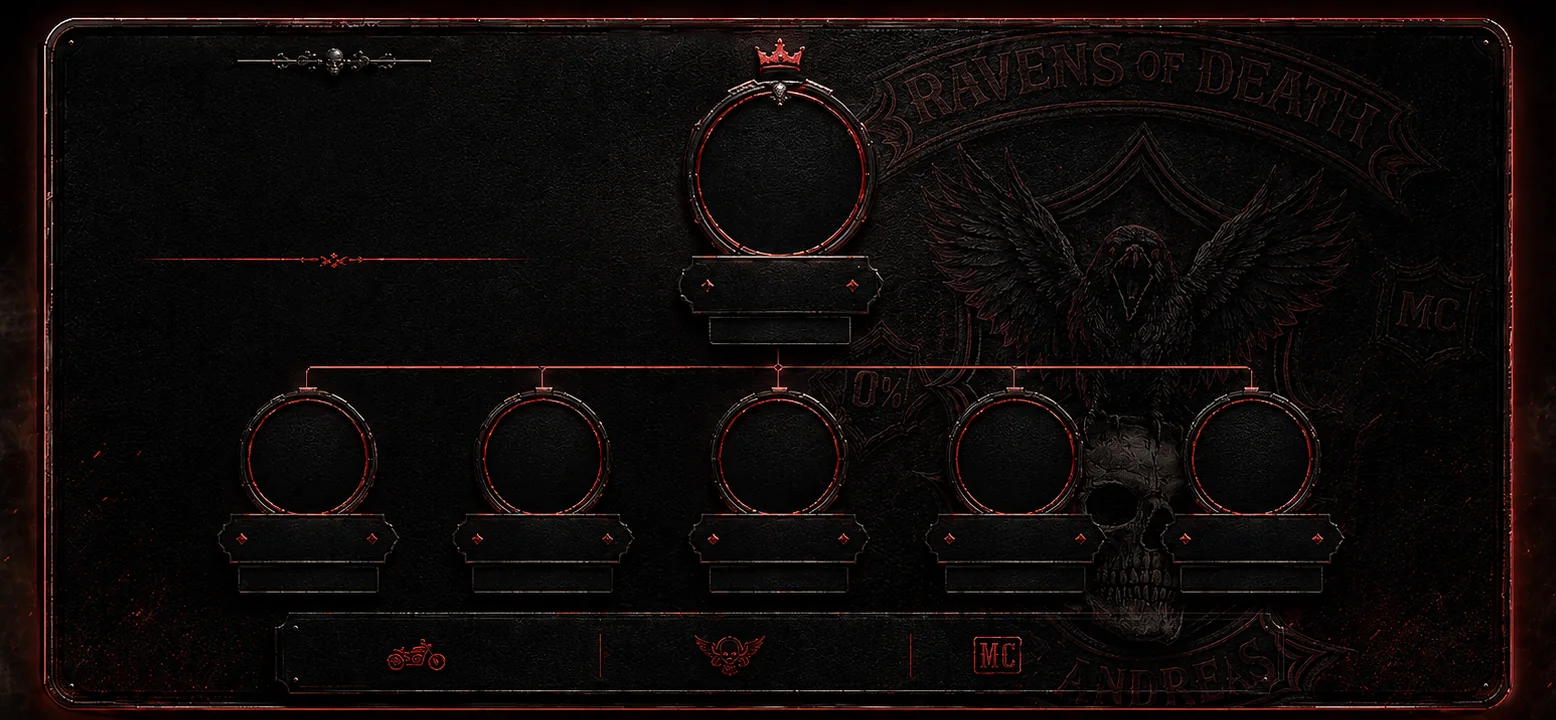
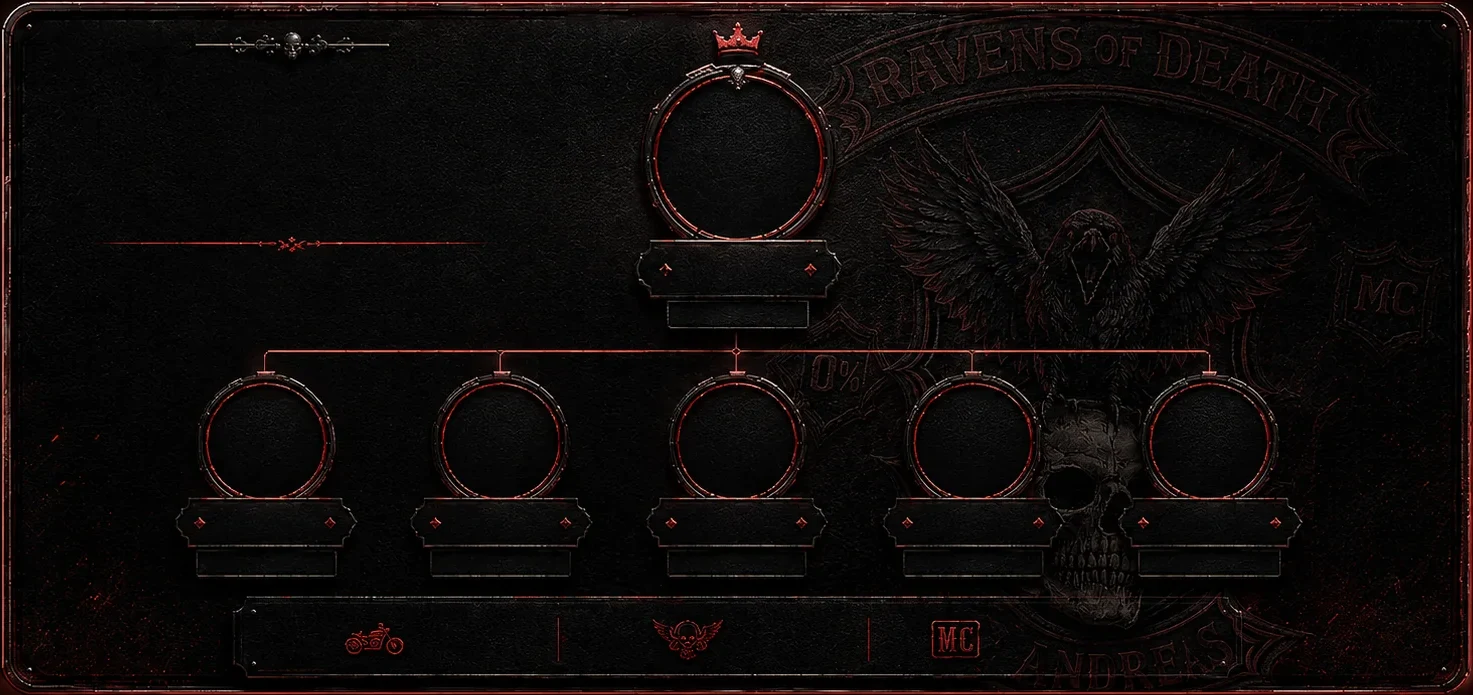
The hierarchy plate gets the room it deserves, and a clean edge
Two things, both about the club's front door.

Size: the plate ran at 58rem inside the 96rem gallery column, a number
measured against a page width that stopped existing two changes ago. It now
runs at 116rem and sits outside that column, since a child cannot exceed a
capped parent. On a very wide screen it overhangs the roster wall beneath
it, which is the right relationship: the plate is the banner, the wall is
the content under it. Below ~116rem of room it just takes what it is given.

Edge: the art carried about 44px of soft red-brown smoke down each side,
18 top and 11 bottom, outside its painted frame. Against Void Black that
read as a dirty rectangle around a crisp plate, and it got worse the bigger
the plate was drawn. The file is trimmed to the frame, two pixels of margin
so the crop cannot slice the outer hairline.

The overlay stays registered because the trim is stated rather than baked
in: every coordinate in ChainOfCommand is still a pixel measured off the
original 1556x720 render, and one CROP box describes what the shipped file
actually contains. Positions carry the offset, sizes do not, which is the
one thing that would have quietly shrunk every nameplate by 42px.

diff --git a/src/app/[orgSlug]/portal/brotherhood/page.tsx b/src/app/[orgSlug]/portal/brotherhood/page.tsx
@@ -132,28 +132,26 @@ export default async function BrotherhoodPage({
     .sort((a, b) => a.rankOrder - b.rankOrder || a.memberNumber - b.memberNumber);
 
   return (
-    <div className={`${PAGE_W.gallery} space-y-8`}>
+    <>
       {/* The heading rides inside the engraved plate, so it belongs to the
           component rather than the page — see ChainOfCommand.
 
-          The plate is painted art at a fixed 1556×720, laid out at
-          width:100% / height:auto with every face and nameplate pinned to
-          that art's own pixel grid. Its height is therefore purely a function
-          of its width — so on the wide gallery column it would grow by a
-          third rather than shrink.
+          The plate is painted art laid out at width:100% / height:auto with
+          every face and nameplate pinned to that art's own pixel grid, so its
+          height is purely a function of its width. It sits OUTSIDE the gallery
+          column rather than inside it: at 116rem it is deliberately wider than
+          PAGE_W.gallery (96rem), and a child cannot exceed a capped parent.
 
-          58rem is measured against what the banner used to be, not against
-          the new column: the page was max-w-6xl (72rem), so 58/72 renders the
-          plate about 19% shorter than it stands today — the reduction that was
-          actually asked for. Sizing it as a fraction of the NEW width would
-          have made it taller than before while looking like a cut.
+          Widening it is the whole point rather than an accident of layout —
+          this is the club's front door, and it is the one thing on the page
+          worth the pixels of a big screen. Below ~116rem of room it simply
+          takes what it is given, so narrower screens are unaffected.
 
-          The inset is deliberate and generous rather than slight, so the plate
-          reads as a framed piece over the wall instead of a banner that failed
-          to reach the edges. It stays the club's front door; it stops being
-          the whole page. (If the art is ever re-cropped shorter, drop this
-          wrapper and let it run full width — see PLATE in ChainOfCommand.) */}
-      <div className="mx-auto w-full max-w-[58rem]">
+          It therefore OVERHANGS the roster wall beneath it on a very wide
+          screen, by design: the plate is the banner and the wall is the
+          content under it. On anything up to about 1920 the overhang is a
+          couple of dozen pixels and the two read as flush. */}
+      <div className="mx-auto mb-8 w-full max-w-[116rem]">
         <ChainOfCommand
           orgSlug={orgSlug}
           title="Brotherhood"
@@ -167,13 +165,15 @@ export default async function BrotherhoodPage({
         />
       </div>
 
-      <BrotherhoodRoster
-        orgSlug={orgSlug}
-        members={riding}
-        pastColors={pastColors}
-        viewerCanManageArt={viewerCanManageArt}
-        backdropPath={brand.assets.portalRosterBackdrop}
-      />
-    </div>
+      <div className={`${PAGE_W.gallery} space-y-8`}>
+        <BrotherhoodRoster
+          orgSlug={orgSlug}
+          members={riding}
+          pastColors={pastColors}
+          viewerCanManageArt={viewerCanManageArt}
+          backdropPath={brand.assets.portalRosterBackdrop}
+        />
+      </div>
+    </>
   );
 }

diff --git a/src/components/portal/roster/ChainOfCommand.tsx b/src/components/portal/roster/ChainOfCommand.tsx
@@ -13,15 +13,34 @@ import type { RosterMember } from "./types";
    one piece with its container and a re-crop is a search-and-replace
    rather than a redesign.                                             */
 
-const PLATE = { w: 1556, h: 720 } as const;
-const px = (v: number) => `${(v / PLATE.w) * 100}%`;
-const py = (v: number) => `${(v / PLATE.h) * 100}%`;
+/**
+ * The window of that 1556×720 render the shipped file actually contains.
+ *
+ * The original carried ~44px of soft red-brown smoke down each side (18 top,
+ * 11 bottom) outside the painted frame, which against Void Black read as a
+ * dirty rectangle around a crisp plate. The file is now trimmed to the frame
+ * itself, with two pixels of margin so the crop cannot slice the outer
+ * hairline.
+ *
+ * Stated as an offset rather than baked into the coordinates so every constant
+ * below stays exactly as it was measured off the full render and remains
+ * checkable against it. A future re-crop is these four numbers.
+ */
+const CROP = { x: 42, y: 16, w: 1473, h: 695 } as const;
+
+// Positions carry the crop offset. Sizes never do — a width is a distance
+// between two art-space points, and subtracting the offset from one would
+// shrink every box by 42px.
+const px = (v: number) => `${((v - CROP.x) / CROP.w) * 100}%`;
+const py = (v: number) => `${((v - CROP.y) / CROP.h) * 100}%`;
+const pw = (v: number) => `${(v / CROP.w) * 100}%`;
+const ph = (v: number) => `${(v / CROP.h) * 100}%`;
 /** Art-space px → container units, so type scales with the plate. */
-const cq = (v: number) => `${(v / PLATE.w) * 100}cqw`;
+const cq = (v: number) => `${(v / CROP.w) * 100}cqw`;
 
 /** Absolute box from art-space edges, as percentages of the plate. */
 function box(x0: number, y0: number, x1: number, y1: number) {
-  return { left: px(x0), top: py(y0), width: px(x1 - x0), height: py(y1 - y0) };
+  return { left: px(x0), top: py(y0), width: pw(x1 - x0), height: ph(y1 - y0) };
 }
 
 /** The five painted officer rings, left to right, by centre x. */
@@ -163,7 +182,7 @@ function PlateSlot({
     <Link
       href={`/${orgSlug}/portal/brotherhood/${member.id}`}
       className="group absolute"
-      style={{ left: px(cx - g.halfPlate), top: py(g.top), width: px(w), height: py(h) }}
+      style={{ left: px(cx - g.halfPlate), top: py(g.top), width: pw(w), height: ph(h) }}
     >
       <Face
         member={member}
@@ -249,8 +268,8 @@ function ChainPlate({
       <img
         src={CHAIN_OF_COMMAND_PLATE}
         alt=""
-        width={PLATE.w}
-        height={PLATE.h}
+        width={CROP.w}
+        height={CROP.h}
         className="block w-full"
         style={{ height: "auto" }}
       />

diff --git a/CLAUDE.md b/CLAUDE.md
@@ -162,11 +162,19 @@ patch@silentsouls.rp (prospect, 1 club run from Road Warrior), platform@brotherh
   roster wall, patch wall, full map, character screen). The roster grid stops
   adding columns at `xl` on purpose: the extra width buys BIGGER cards, not
   more of them.
-- The Brotherhood hierarchy plate is capped at `max-w-[58rem]` inside the
-  gallery column. That number is measured against the OLD page width (72rem),
-  not the new one — the plate is fixed-aspect painted art laid out at
-  `height:auto`, so its height is purely a function of its width. Sizing it as
-  a fraction of the wider column would make it taller while looking like a cut.
+- The Brotherhood hierarchy plate runs at `max-w-[116rem]` and sits OUTSIDE
+  the gallery column, because 116rem is wider than `PAGE_W.gallery` (96rem) and
+  a child cannot exceed a capped parent. It is fixed-aspect painted art laid
+  out at `height:auto`, so its height is purely a function of its width; on a
+  very wide screen it overhangs the roster wall beneath it on purpose.
+  - `CROP` in `ChainOfCommand` is how the overlay stays registered to the art.
+    Every coordinate in that file is a pixel measured off the ORIGINAL 1556×720
+    render; the shipped file is that render trimmed to its painted frame, and
+    `CROP` states the difference so the constants stay checkable against what
+    was measured. POSITIONS carry the offset (`px`/`py`), SIZES never do
+    (`pw`/`ph`) — a width is a distance between two art-space points, and
+    subtracting the offset from one shrinks every box. A re-crop is four
+    numbers, not a re-measure.
 - **`scripts/lib/branding.ts` is the scripts' door onto `branding-defaults.ts`**
   for org name + portal/public branding. seed/bootstrap/apply-branding/
   update-public-branding/migrate-cut all import it — never re-declare these
